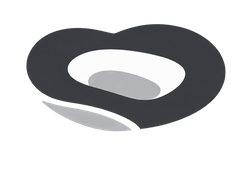
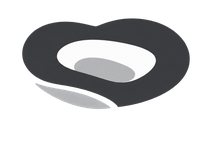
Popup: ícone de estádio alinhado por flex, recorte mais justo, maior
O vertical-align pela baseline deixava o ícone (mais alto que o texto de
11px) a flutuar acima da linha do estádio. Passa a display:flex +
align-items:center, como já acontecia na linha da competição — alinhamento
exacto em vez de um offset em pixels à mão. Ícone um pouco maior (14→16px)
e os dois PNGs recortados com menos margem morta à volta da forma.

diff --git a/style.css b/style.css
@@ -247,8 +247,11 @@ tbody tr:hover{background:#fafaf8}
 .cal-pop-comp{display:flex;align-items:center;justify-content:center;gap:8px;font-size:12px;color:var(--mu);padding-top:12px;border-top:1px solid var(--bo);text-align:center}
 .cal-pop-comp img{width:20px;height:20px;object-fit:contain;flex-shrink:0}
 .cal-pop-comp strong{color:var(--tx)}
-.cal-pop-estadio{font-size:11px;color:var(--mu);text-align:center;margin-bottom:8px}
-.cal-pop-estadio img{width:14px;height:14px;object-fit:contain;vertical-align:-2px;margin-right:2px}
+/* flex + align-items:center em vez de vertical-align: o ícone é bem mais
+   alto que o texto de 11px, e alinhar pela baseline deixava-o a flutuar
+   muito acima da linha — mesmo truque do .cal-pop-comp acima. */
+.cal-pop-estadio{display:flex;align-items:center;justify-content:center;gap:4px;font-size:11px;color:var(--mu);text-align:center;margin-bottom:8px}
+.cal-pop-estadio img{width:16px;height:16px;object-fit:contain;flex-shrink:0}
 
 /* DETALHE JOGO */
 .jogo-detalhe{background:var(--card);border:1px solid var(--bo);border-radius:var(--r);padding:20px 22px;margin-bottom:16px}

diff --git a/app.js b/app.js
@@ -1552,7 +1552,7 @@ function _popupJogoHTML(j){
   const compHTML=`<div class="cal-pop-comp">${compSrc?`<img src="${compSrc}" alt="" loading="lazy" onerror="this.style.display='none'">`:''}<span>${j.competicao}${jornadaTxt?' · <strong>'+jornadaTxt+'</strong>':''}</span></div>`;
   const closeBtn='<button class="cal-pop-close" onclick="fecharPopupJogo()" aria-label="Fechar">✕</button>';
   const estadioIcon=_ehEstadioAlvalade(j.estadio)?'estadio-alvalade.png':'estadio-outro.png';
-  const estadioHTML=j.estadio?`<div class="cal-pop-estadio"><img src="${estadioIcon}" alt="" loading="lazy" onerror="this.style.display='none'"> ${j.estadio}</div>`:'';
+  const estadioHTML=j.estadio?`<div class="cal-pop-estadio"><img src="${estadioIcon}" alt="" loading="lazy" onerror="this.style.display='none'"><span>${j.estadio}</span></div>`:'';
   if(j.porDefinir||j.potencial){
     const dataTxt=(j.dataAte&&j.dataAte!==j.data)?`${_popupDataFmt(j.data)} – ${_popupDataFmt(j.dataAte)}`:_popupDataFmt(j.data);
     return`${closeBtn}

diff --git a/sw.js b/sw.js
@@ -1,4 +1,4 @@
-const CACHE_NAME = 'app-cache-v52';
+const CACHE_NAME = 'app-cache-v53';
 
 self.addEventListener('install', () => self.skipWaiting());
 
